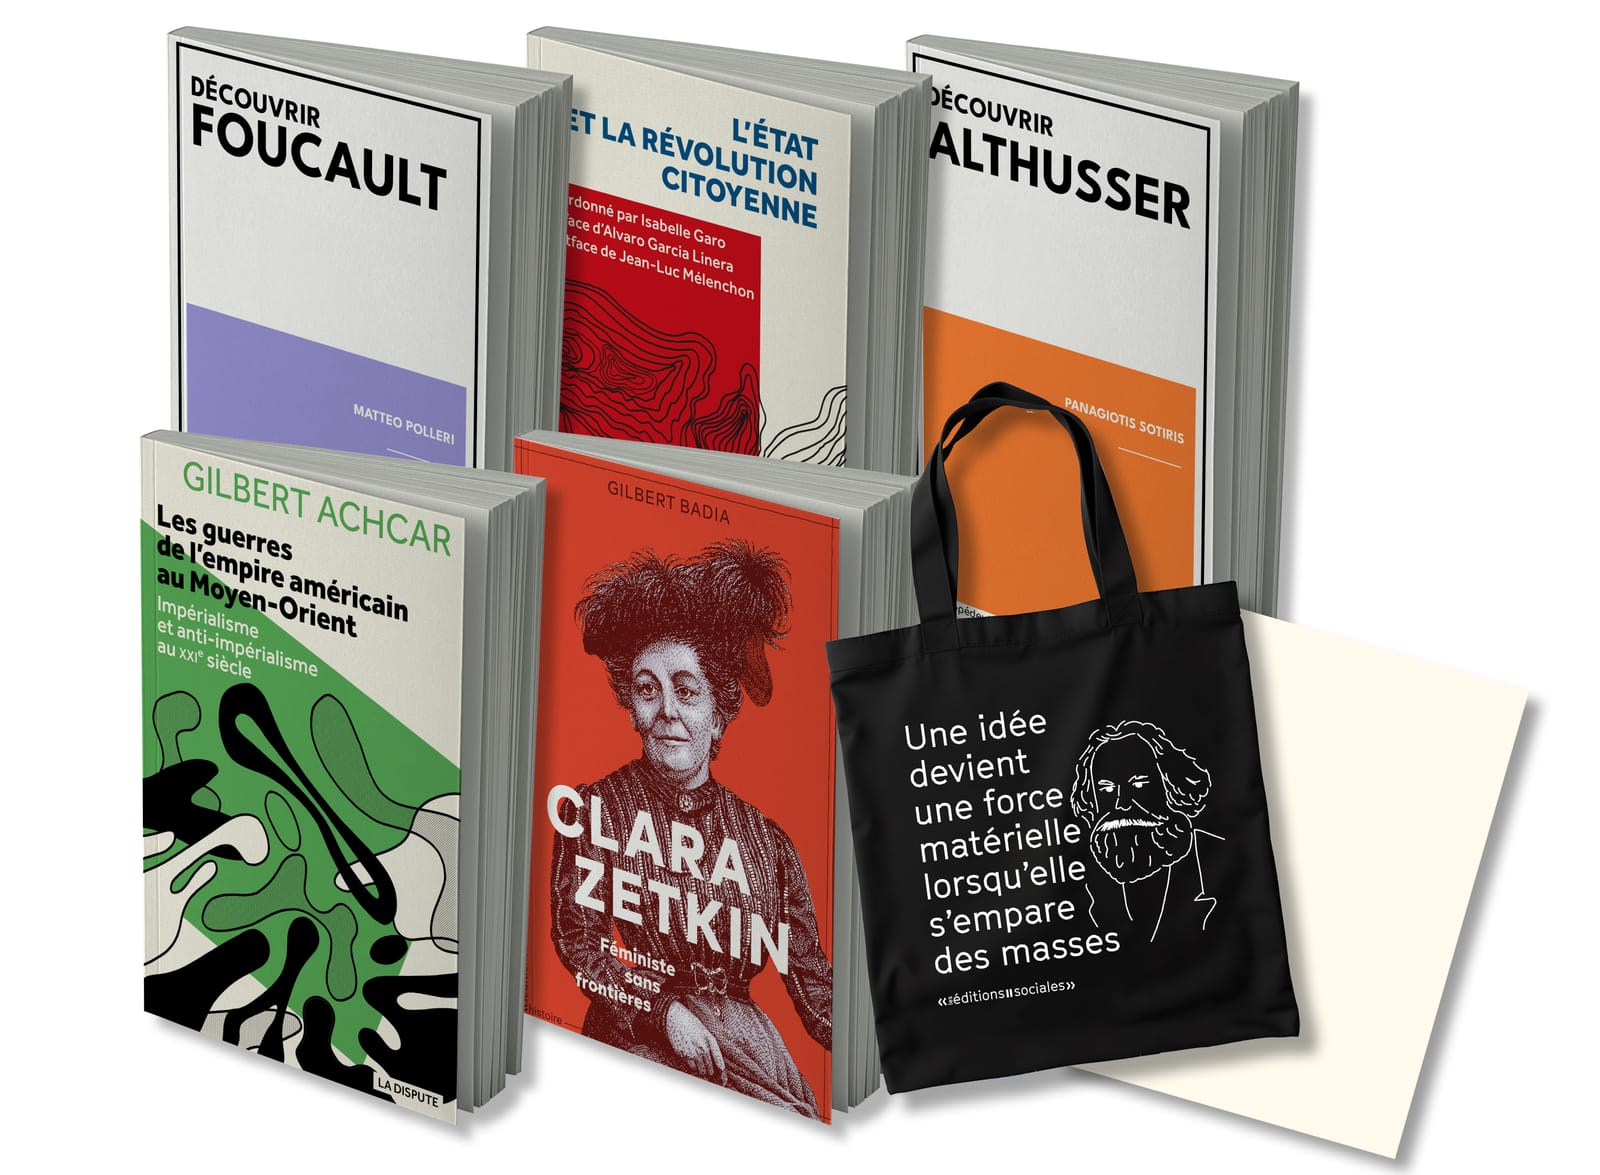
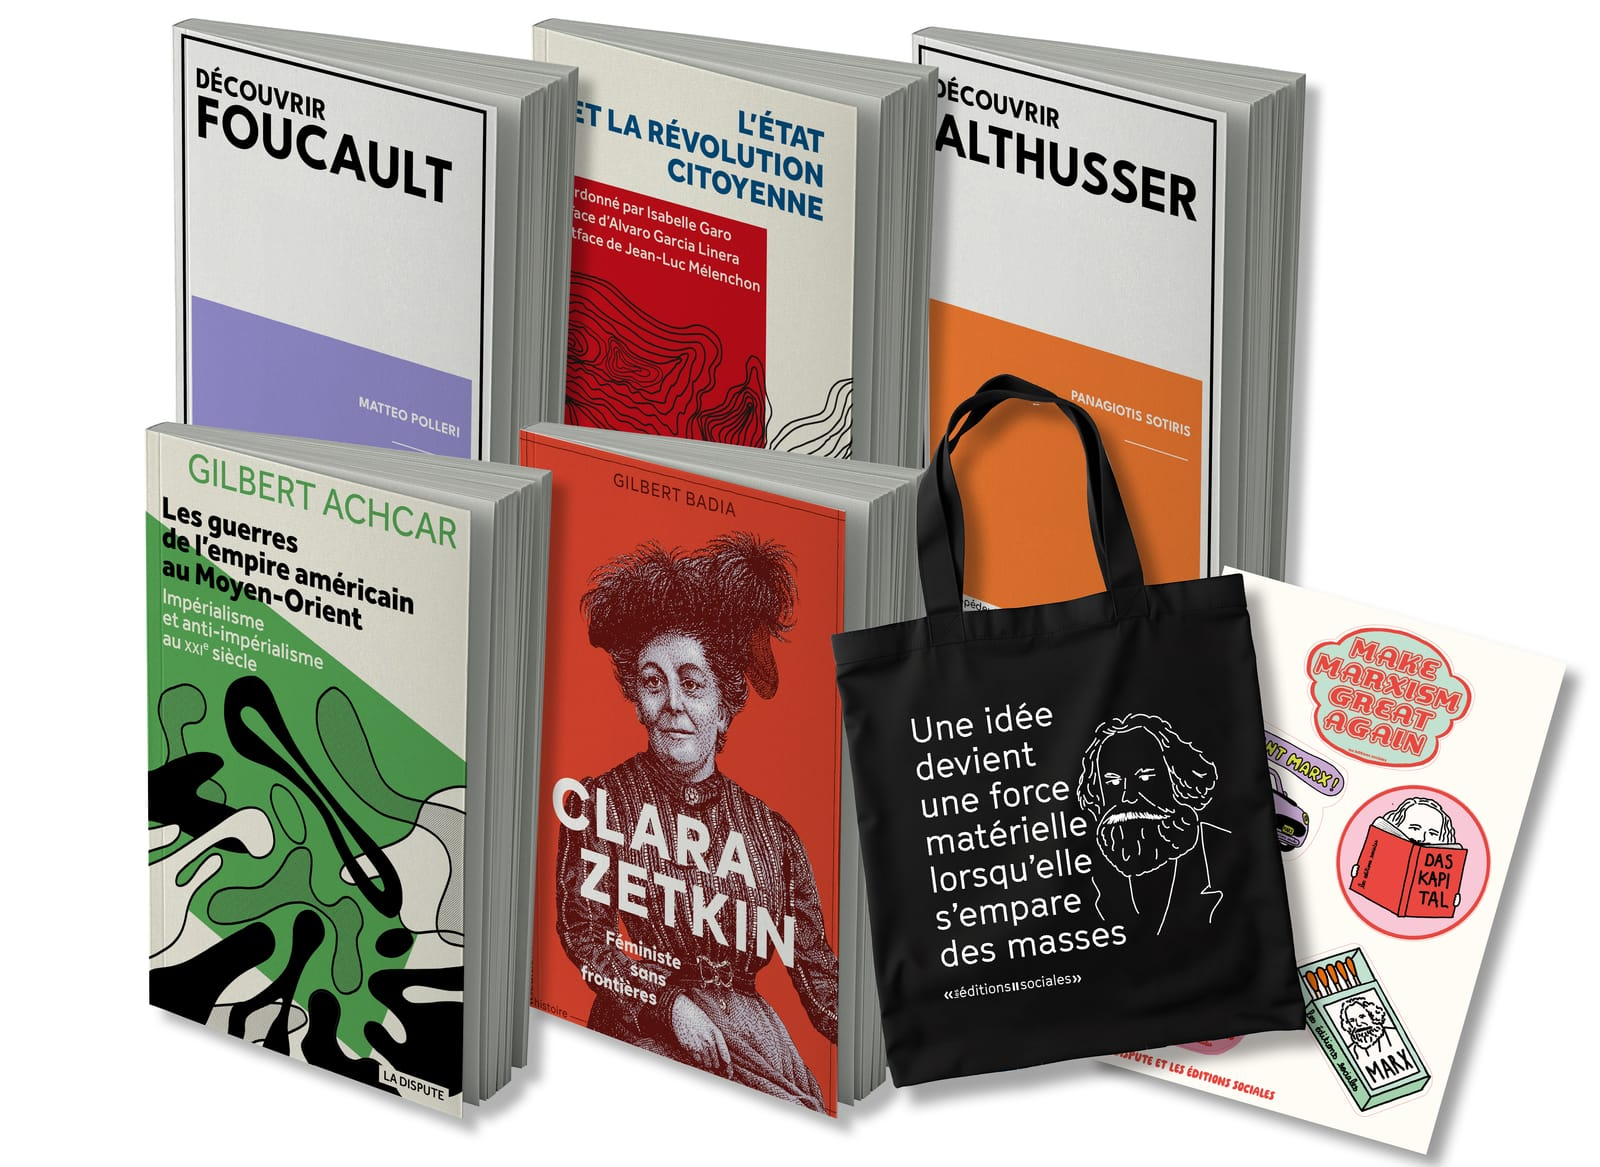
feat(souscription): intégrer les visuels de contreparties re-livrés
Livraison Clara du 2026-08-19 : les 9 montages sont ré-exportés avec la
planche de stickers ENFIN DESSINÉE. Le `TODO(visuel)` de `tiers-rail.tsx`
tombe donc — « coup de pouce » n'est plus un rectangle crème vide, c'est la
planche elle-même (5 stickers), et elle est présente dans les 8 autres
montages.

Assets refaits par `scripts/contreparties-visuels.mjs --apply` depuis le zip
client, à recette constante (les cadrages, largeurs et l'encodage ne bougent
pas : seul le contenu des montages change, les rapports de forme varient de
moins de 2 %, la disposition des cartes est inchangée). Au passage, le
liseré noir en haut de « camarade pour la vie » — artefact d'export parti en
prod en juillet — disparaît, et celui de « camarade d'honneur » (8 px à
gauche dans cette livraison) n'y entre pas.

Poids : 1,33 Mio → 1,62 Mio pour les 9 fichiers (+22 %), dont l'essentiel
sur « coup de pouce », qui passe d'un aplat vide de 9 Ko à un vrai dessin.
Vérifié : typecheck, lint, test, knip, et `next build` (c'est lui qui génère
les `placeholder="blur"`).

Changed region(s): [[0.0625, 0.0, 1.0, 1.0]]

diff --git a/src/app/(site)/souscription/_components/tiers-rail.tsx b/src/app/(site)/souscription/_components/tiers-rail.tsx
@@ -48,12 +48,12 @@ export const OPENING_MICROCOPY = "Ouverture le 20 août";
 const SUBMIT_CTA = `min-h-11 inline-flex items-center justify-center gap-2 border-2 border-ink bg-ink px-4 py-2.5 font-sans text-sm font-bold uppercase tracking-[.03em] text-paper transition-colors motion-reduce:transition-none hover:bg-paper hover:text-ink ${FOCUS_RING_DARK} ${FOCUS_RING_HOVER_LIGHT}`;
 
 /**
- * Visuel par palier (PDF client, montages produits fond blanc) — keyé par
- * id de `DONATION_TIERS`.
- *
- * TODO(visuel) : le visuel « coup de pouce » (et la planche de stickers
- * présente dans tous les montages) est un rectangle crème VIDE — la planche
- * n'est pas encore dessinée ; visuels à re-livrer par Clara.
+ * Visuel par palier (montages produits fond blanc) — keyé par id de
+ * `DONATION_TIERS`. Livraison Clara du 2026-08-19 : la planche de stickers,
+ * rectangle crème vide dans la livraison de juillet, est désormais dessinée
+ * dans les 9 montages (« coup de pouce » EST cette planche). Recette de
+ * fabrication des assets depuis le zip client, rejouable :
+ * `scripts/contreparties-visuels.mjs`.
  */
 const TIER_IMAGES: Record<DonationTierId, StaticImageData> = {
   // Les deux premiers visuels sont recadrés à la source (trim sharp des
